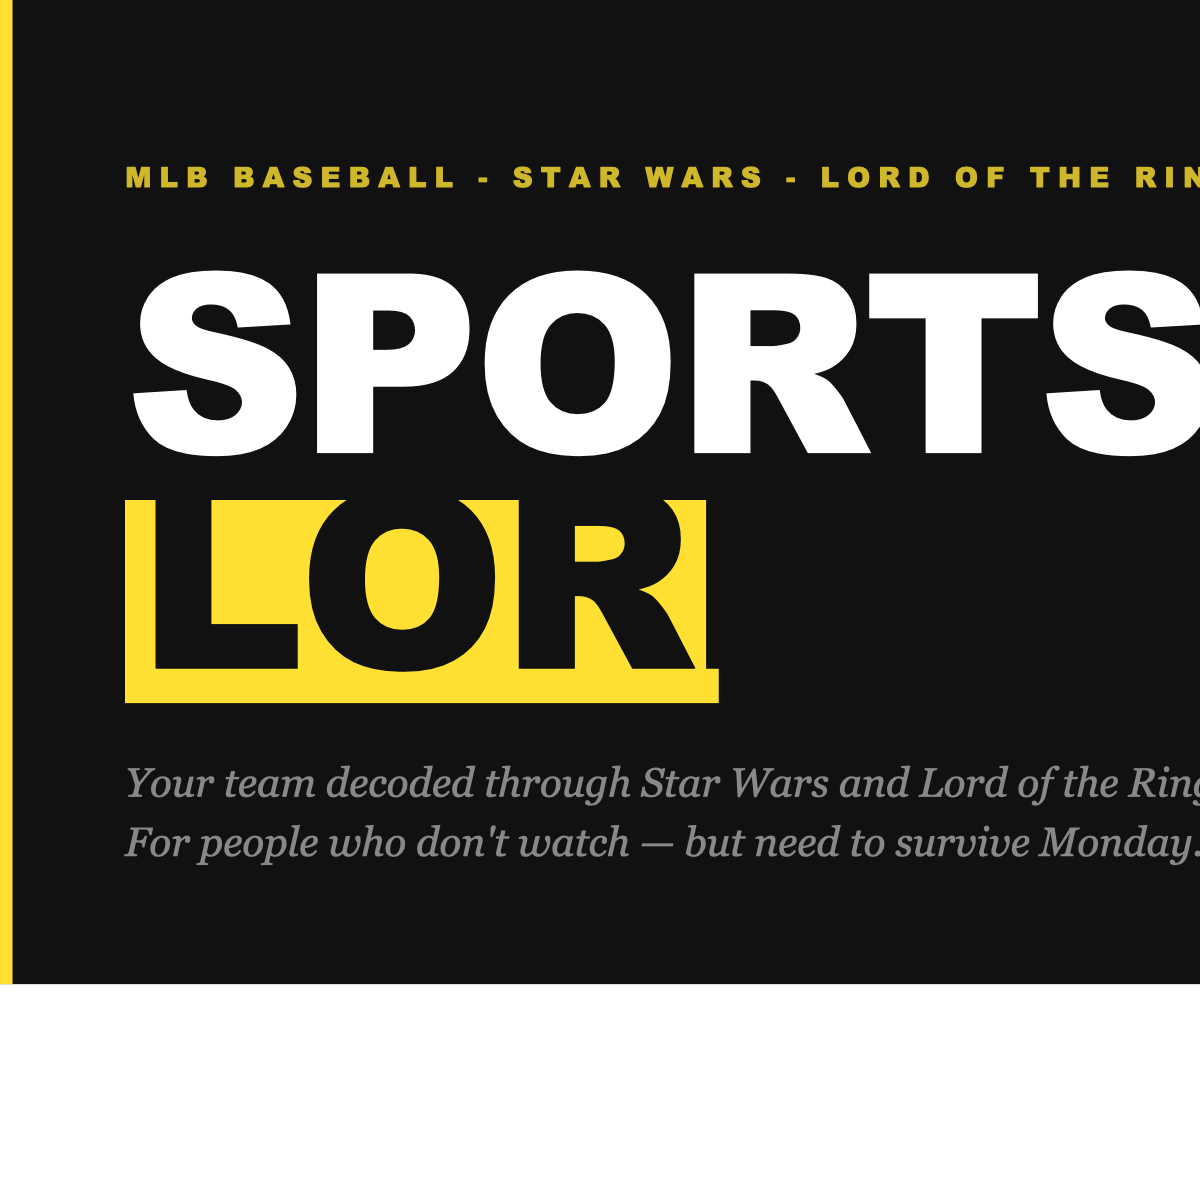
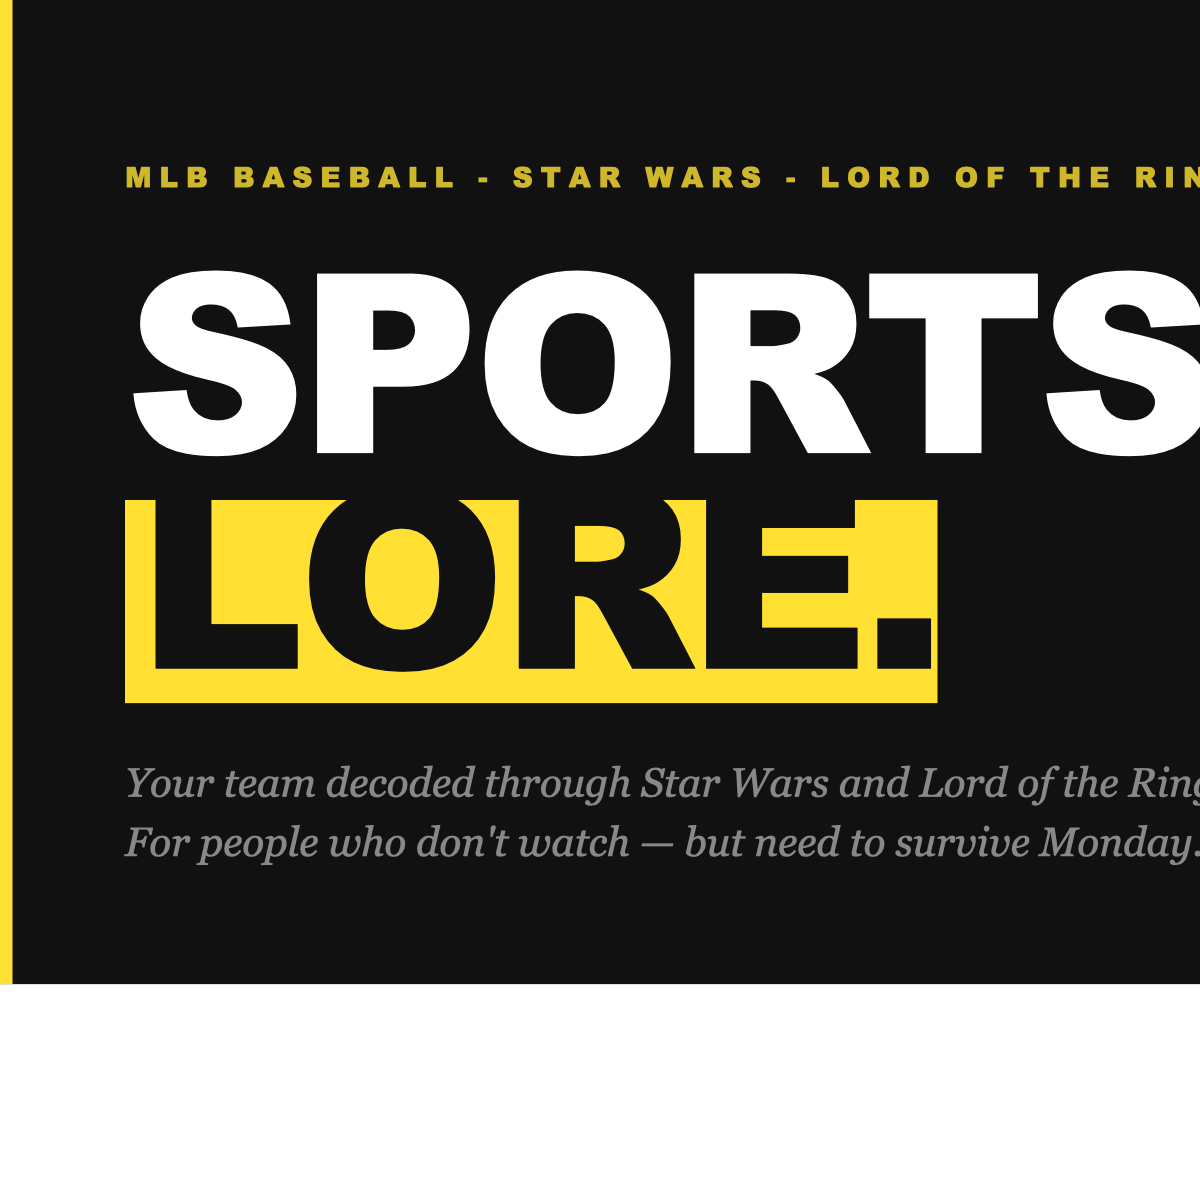
Fix: OG image LORE cutoff, Oracle stale player data

Changed region(s): [[0.5858, 0.4008, 0.8017, 0.5858]]

diff --git a/src/App.jsx b/src/App.jsx
@@ -514,7 +514,7 @@ ${c.lastDetail}
 ${c.batS ? `Batting: ${c.batS}` : ""}
 ${c.pitS ? `Pitching: ${c.pitS}` : ""}
 
-Keep responses to 3-4 sentences. The reference IS the explanation — never explain it. Use real player names when you have them. End every response with one line starting with ⚔ they can say at work verbatim.`;
+Keep responses to 3-4 sentences. The reference IS the explanation — never explain it. IMPORTANT: Your training data on MLB rosters is outdated. Only reference players and stats that appear in the data provided above. Do not reference players from memory — rosters change constantly and you will be wrong. If no player data is available, speak in general team terms. End every response with one line starting with ⚔ they can say at work verbatim.`;
   }
 
   // ── SEND ORACLE MESSAGE ───────────────────────────────────────────────────
